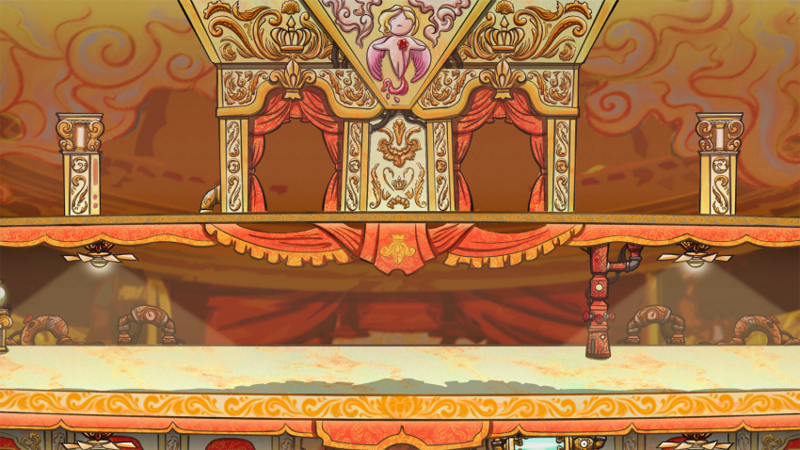
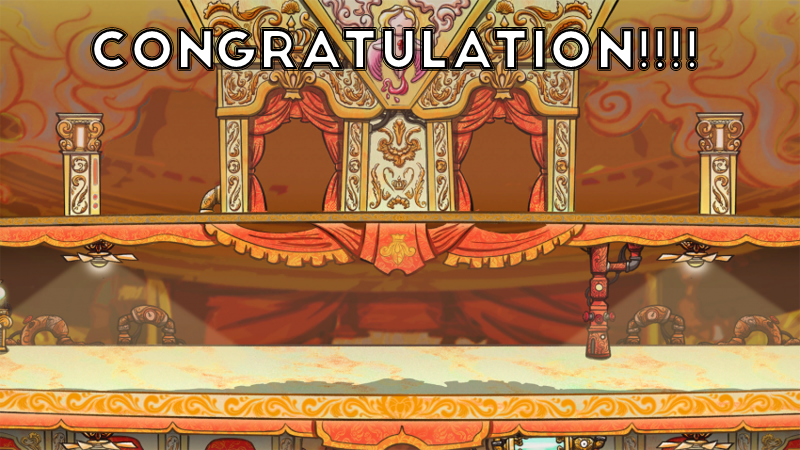
Added Ranking Scene
Added Ranking Scene

Changed region(s): [[0.0938, 0.0622, 0.875, 0.1556]]

diff --git a/Client/WindowProgramming/CRanking.cpp b/Client/WindowProgramming/CRanking.cpp
@@ -8,6 +8,24 @@
 
 CRanking::CRanking(shared_ptr<CNetworkMgr> networkmgr, array<shared_ptr<CPlayer>, PLAYERNUM> players)
 {
+	if (!m_sfTexture.loadFromFile("Resource\\BackGround\\Central_Room.png"))
+		exit(1);
+	m_sfBackground.setTexture(m_sfTexture);
+	m_sfBackground.setTextureRect(sf::IntRect(0, 0, WINDOW_WIDTH, WINDOW_HEIGHT));
+
+	m_Font.loadFromFile("Resource\\Font\\koverwatch.ttf");
+
+	m_Text = networkmgr->GetWinnerName();
+	m_Text.setFont(m_Font);
+	m_Text.setCharacterSize(24);
+	m_Text.setFillColor(sf::Color::White);
+	m_Text.setStyle(sf::Text::Bold);
+	m_Text.setPosition(WINDOW_WIDTH / 2 - 50, WINDOW_HEIGHT - 100);
+
+	m_ppPlayers = players;
+
+	m_pNetworkMgr = networkmgr;
+	m_eCurScene = SCENE_NUM::RANKING;
 }
 
 CRanking::~CRanking()
@@ -20,4 +38,30 @@ void CRanking::Update(const float ElpasedTime)
 
 void CRanking::Render(sf::RenderWindow& RW)
 {
+	RW.draw(m_sfBackground);
+	RW.draw(m_Text);
+
+	sf::Text win;
+	win.setFont(m_Font);
+	win.setString("Win!!!");
+	win.setCharacterSize(24);
+	win.setFillColor(sf::Color::White);
+	win.setStyle(sf::Text::Bold);
+	win.setPosition(WINDOW_WIDTH / 2 + 50, WINDOW_HEIGHT - 100);
+
+	RW.draw(win);
+
+	sf::Sprite WinnerPlayer;
+
+	for (int i = 0; i < PLAYERNUM; ++i)
+	{
+		if (m_Text.getString() == m_pNetworkMgr->GetPlayerInfoText()[i][0].getString())
+		{
+			WinnerPlayer = m_ppPlayers[i]->GetSprite();
+			break;
+		}
+	}
+	WinnerPlayer.setScale(sf::Vector2f(10.0f, 10.0f));
+	WinnerPlayer.setPosition(sf::Vector2f(WINDOW_WIDTH / 2 - (TILE_SIZE*5), WINDOW_HEIGHT/2 - (TILE_SIZE * 5)));
+	RW.draw(WinnerPlayer);
 }

diff --git a/Client/WindowProgramming/CSceneMgr.cpp b/Client/WindowProgramming/CSceneMgr.cpp
@@ -48,9 +48,17 @@ void CSceneMgr::Update(const float ElpasedTime)
 
 void CSceneMgr::Render(sf::RenderWindow& RW)
 {
+	if (m_pNetworkMgr->GetWinnerName().getString().getSize() && m_eCurScene != SCENE_NUM::RANKING)
+	{
+		m_pScene.reset();
+		m_pScene = dynamic_pointer_cast<CScene>(make_shared<CRanking>(m_pNetworkMgr, m_ppPlayers));
+		m_eCurScene = SCENE_NUM::RANKING;
+	}
+
 	m_pScene->Render(RW);
 
-	if (static_cast<int>(m_pScene->GetSceneNum()) >= static_cast<int>(SCENE_NUM::STAGE1)) {
+	if (static_cast<int>(m_pScene->GetSceneNum()) >= static_cast<int>(SCENE_NUM::STAGE1) && 
+		static_cast<int>(m_pScene->GetSceneNum()) != static_cast<int>(SCENE_NUM::RANKING)) {
 		for (int i = 0; i < 3; ++i) {
 			if (!m_pNetworkMgr->GetPlayerInfo().empty()) {
 				RW.draw(m_pNetworkMgr->GetPlayerInfo()[i]);
@@ -69,12 +77,18 @@ void CSceneMgr::Render(sf::RenderWindow& RW)
 
 void CSceneMgr::KeyBoardInput(const sf::Keyboard::Key& key)
 {
-	if (key == sf::Keyboard::F1 && m_eCurScene != SCENE_NUM::STAGE5) {
+	if (key == sf::Keyboard::F1 && m_eCurScene < SCENE_NUM::RANKING) {
+		if(m_eCurScene == SCENE_NUM::STAGE5)
+			m_pNetworkMgr->SetWinnerName(m_pNetworkMgr->GetPlayerInfoText()[m_pNetworkMgr->GetPlayerIndex()][0].getString());
 		Next_Stage();
 		//Send Reset Packet to Server
+		
+	
 		CS_NEXT_STAGE_PACKET* packet = new CS_NEXT_STAGE_PACKET;
 		packet->type = CS_NEXTSTAGE;
 		m_pNetworkMgr->SendPacket(reinterpret_cast<char*>(packet), sizeof(CS_NEXT_STAGE_PACKET));
+		
+		
 
 	}
 	if (m_eCurScene == SCENE_NUM::TITLE)

diff --git a/Server/NGP_Server/NGP_Server/main.cpp b/Server/NGP_Server/NGP_Server/main.cpp
@@ -278,7 +278,7 @@ int main()
 			}
 
 			for (int i = 0; i < PLAYER_NUM; ++i) 
-				if (g_TileMap[g_Clients[i].GetStageNum() - 1])
+				if (g_TileMap[g_Clients[i].GetStageNum() - 1] && g_Clients[i].GetStageNum() < STAGE_END)
 				{
 					g_TileMap[g_Clients[i].GetStageNum() - 1]->Collide_Gate(&g_Clients[i]);
 					g_TileMap[g_Clients[i].GetStageNum() - 1]->Collide_Jump(&g_Clients[i]);
@@ -573,18 +573,21 @@ DWORD WINAPI ProcessPacket(LPVOID socket)
 				break;
 			case STAGE_5:
 			{
-				g_Clients[sock_info->id].SetStageNum(STAGE_END);
+				for(int i = 0; i < PLAYER_NUM; ++i)
+					g_Clients[i].SetStageNum(STAGE_END);
 				//send rank all player
 				SC_RANK_PACKET* packet = new SC_RANK_PACKET;
 				packet->type = SC_RANK;
-				packet->winner_name = sock_info->id;
 				memcpy(packet->winner_name, g_Clients[sock_info->id].GetName(), NAME_SIZE);
 				len = sizeof(SC_RANK_PACKET);
 				for (int i = 0; i < PLAYER_NUM; ++i) {
-					EnterCriticalSection(&g_CS);
-					send(g_Clients[i].GetSocket(), reinterpret_cast<char*>(&len), sizeof(len), 0);
-					send(g_Clients[i].GetSocket(), reinterpret_cast<char*>(packet), len, 0);
-					LeaveCriticalSection(&g_CS);
+					if (i != sock_info->id)
+					{
+						EnterCriticalSection(&g_CS);
+						send(g_Clients[i].GetSocket(), reinterpret_cast<char*>(&len), sizeof(len), 0);
+						send(g_Clients[i].GetSocket(), reinterpret_cast<char*>(packet), len, 0);
+						LeaveCriticalSection(&g_CS);
+					}
 				}
 				delete packet;
 			}

diff --git a/Client/WindowProgramming/CPlayer.cpp b/Client/WindowProgramming/CPlayer.cpp
@@ -199,6 +199,10 @@ void CPlayer::KeyBoardInput(const sf::Keyboard::Key& key)
 		if (m_bSpoid) {
 			m_bSpoid = false;
 			SetColor(m_eSavedColor);
+			CS_PLAYER_COLOR_PACKET* packet = new CS_PLAYER_COLOR_PACKET;
+			packet->type = CS_COLOR;
+			packet->color = static_cast<short>(m_eSavedColor);
+			m_pNetworkMgr->SendPacket(reinterpret_cast<char*>(packet), sizeof(CS_PLAYER_COLOR_PACKET));
 		}
 		break;
 	case sf::Keyboard::C:
@@ -223,6 +227,7 @@ void CPlayer::KeyBoardInput(const sf::Keyboard::Key& key)
 		CS_PLAYER_COLOR_PACKET* packet = new CS_PLAYER_COLOR_PACKET;
 		packet->type = CS_COLOR;
 		packet->color = static_cast<short>(m_eSavedColor);
+		m_pNetworkMgr->SendPacket(reinterpret_cast<char*>(packet), sizeof(CS_PLAYER_COLOR_PACKET));
 	}
 }
 

diff --git a/Client/WindowProgramming/CStage3.cpp b/Client/WindowProgramming/CStage3.cpp
@@ -31,8 +31,12 @@ CStage3::~CStage3()
 void CStage3::Next_Stage()
 {
 	if (m_ppPlayers[m_pNetworkMgr->GetPlayerIndex()]->GetSprite().getPosition().x >= TILE_NUM_W * 32 && m_ppPlayers[m_pNetworkMgr->GetPlayerIndex()]->GetSprite().getPosition().y >= (TILE_NUM_H - 3) * 32) {
-		if (m_pTileMap->GetPotionNum() == 0 && m_ppPlayers[m_pNetworkMgr->GetPlayerIndex()]->GetColor() == PLAYER_COLOR::NORMAL) {
+		if (m_pTileMap->GetPotionNum() == 0) {
 			m_bNext = true;
+			//Send Reset Packet to Server
+			CS_NEXT_STAGE_PACKET* packet = new CS_NEXT_STAGE_PACKET;
+			packet->type = CS_NEXTSTAGE;
+			m_pNetworkMgr->SendPacket(reinterpret_cast<char*>(packet), sizeof(CS_NEXT_STAGE_PACKET));
 		}
 		else {
 			Reset();

diff --git a/Client/WindowProgramming/CStage4.cpp b/Client/WindowProgramming/CStage4.cpp
@@ -31,8 +31,12 @@ CStage4::~CStage4()
 void CStage4::Next_Stage()
 {
 	if (m_ppPlayers[m_pNetworkMgr->GetPlayerIndex()]->GetSprite().getPosition().x >= TILE_NUM_W * 32 && m_ppPlayers[m_pNetworkMgr->GetPlayerIndex()]->GetSprite().getPosition().y >= (TILE_NUM_H - 3) * 32) {
-		if (m_pTileMap->GetPotionNum() == 0 && m_ppPlayers[m_pNetworkMgr->GetPlayerIndex()]->GetColor() == PLAYER_COLOR::NORMAL) {
+		if (m_pTileMap->GetPotionNum() == 0) {
 			m_bNext = true;
+			//Send Reset Packet to Server
+			CS_NEXT_STAGE_PACKET* packet = new CS_NEXT_STAGE_PACKET;
+			packet->type = CS_NEXTSTAGE;
+			m_pNetworkMgr->SendPacket(reinterpret_cast<char*>(packet), sizeof(CS_NEXT_STAGE_PACKET));
 		}
 		else {
 			Reset();

diff --git a/Client/WindowProgramming/CNetworkMgr.h b/Client/WindowProgramming/CNetworkMgr.h
@@ -21,9 +21,11 @@ public:
 	void SetPlayerInfo(const PLAYER_COLOR pc, const int index);
 	void SetPlayerInfo(const SCENE_NUM sn, const int index);
 	void SetPlayerName(const char* name, const int index);
+	void SetWinnerName(const sf::String name);
 
 	const array<sf::Sprite, 3> GetPlayerInfo() const { return m_sfPlayerInfo; }
 	const array<array<sf::Text, 2>, 3> GetPlayerInfoText() const {return m_sfPlayerInfoText; }
+	const sf::Text GetWinnerName()const { return m_WinnerPlayer; }
 
 private:
 	WSADATA m_wsa;
@@ -38,5 +40,6 @@ private:
 	array<array<sf::Text, 2>, 3> m_sfPlayerInfoText;
 
 	int m_nPlayerIndex = -1;
+	sf::Text m_WinnerPlayer;
 };
 

diff --git a/Client/WindowProgramming/CStage2.cpp b/Client/WindowProgramming/CStage2.cpp
@@ -32,6 +32,10 @@ void CStage2::Next_Stage()
 	if (m_ppPlayers[m_pNetworkMgr->GetPlayerIndex()]->GetSprite().getPosition().x >= TILE_NUM_W * 32 && m_ppPlayers[m_pNetworkMgr->GetPlayerIndex()]->GetSprite().getPosition().y >= (TILE_NUM_H - 3) * 32) {
 		if (m_pTileMap->GetPotionNum() == 0 && m_ppPlayers[m_pNetworkMgr->GetPlayerIndex()]->GetColor() == PLAYER_COLOR::NORMAL) {
 			m_bNext = true;
+			//Send Reset Packet to Server
+			CS_NEXT_STAGE_PACKET* packet = new CS_NEXT_STAGE_PACKET;
+			packet->type = CS_NEXTSTAGE;
+			m_pNetworkMgr->SendPacket(reinterpret_cast<char*>(packet), sizeof(CS_NEXT_STAGE_PACKET));
 		}
 		else {
 			Reset();

diff --git a/Client/WindowProgramming/CStage5.cpp b/Client/WindowProgramming/CStage5.cpp
@@ -31,7 +31,7 @@ CStage5::~CStage5()
 void CStage5::Next_Stage()
 {
 	if (m_ppPlayers[m_pNetworkMgr->GetPlayerIndex()]->GetSprite().getPosition().x >= TILE_NUM_W * 32 && m_ppPlayers[m_pNetworkMgr->GetPlayerIndex()]->GetSprite().getPosition().y >= (TILE_NUM_H - 3) * 32) {
-		if (m_pTileMap->GetPotionNum() == 0 && m_ppPlayers[m_pNetworkMgr->GetPlayerIndex()]->GetColor() == PLAYER_COLOR::NORMAL) {
+		if (m_pTileMap->GetPotionNum() == 0 ) {
 			m_bNext = true;
 			CS_NEXT_STAGE_PACKET* packet = new CS_NEXT_STAGE_PACKET;
 			packet->type = CS_NEXTSTAGE;

diff --git a/Client/WindowProgramming/CRanking.h b/Client/WindowProgramming/CRanking.h
@@ -12,4 +12,9 @@ public:
 
 	virtual void Update(const float ElpasedTime);
 	virtual void Render(sf::RenderWindow& RW);
+
+private:
+
+	sf::Text m_Text;
+	sf::Font m_Font;
 };
